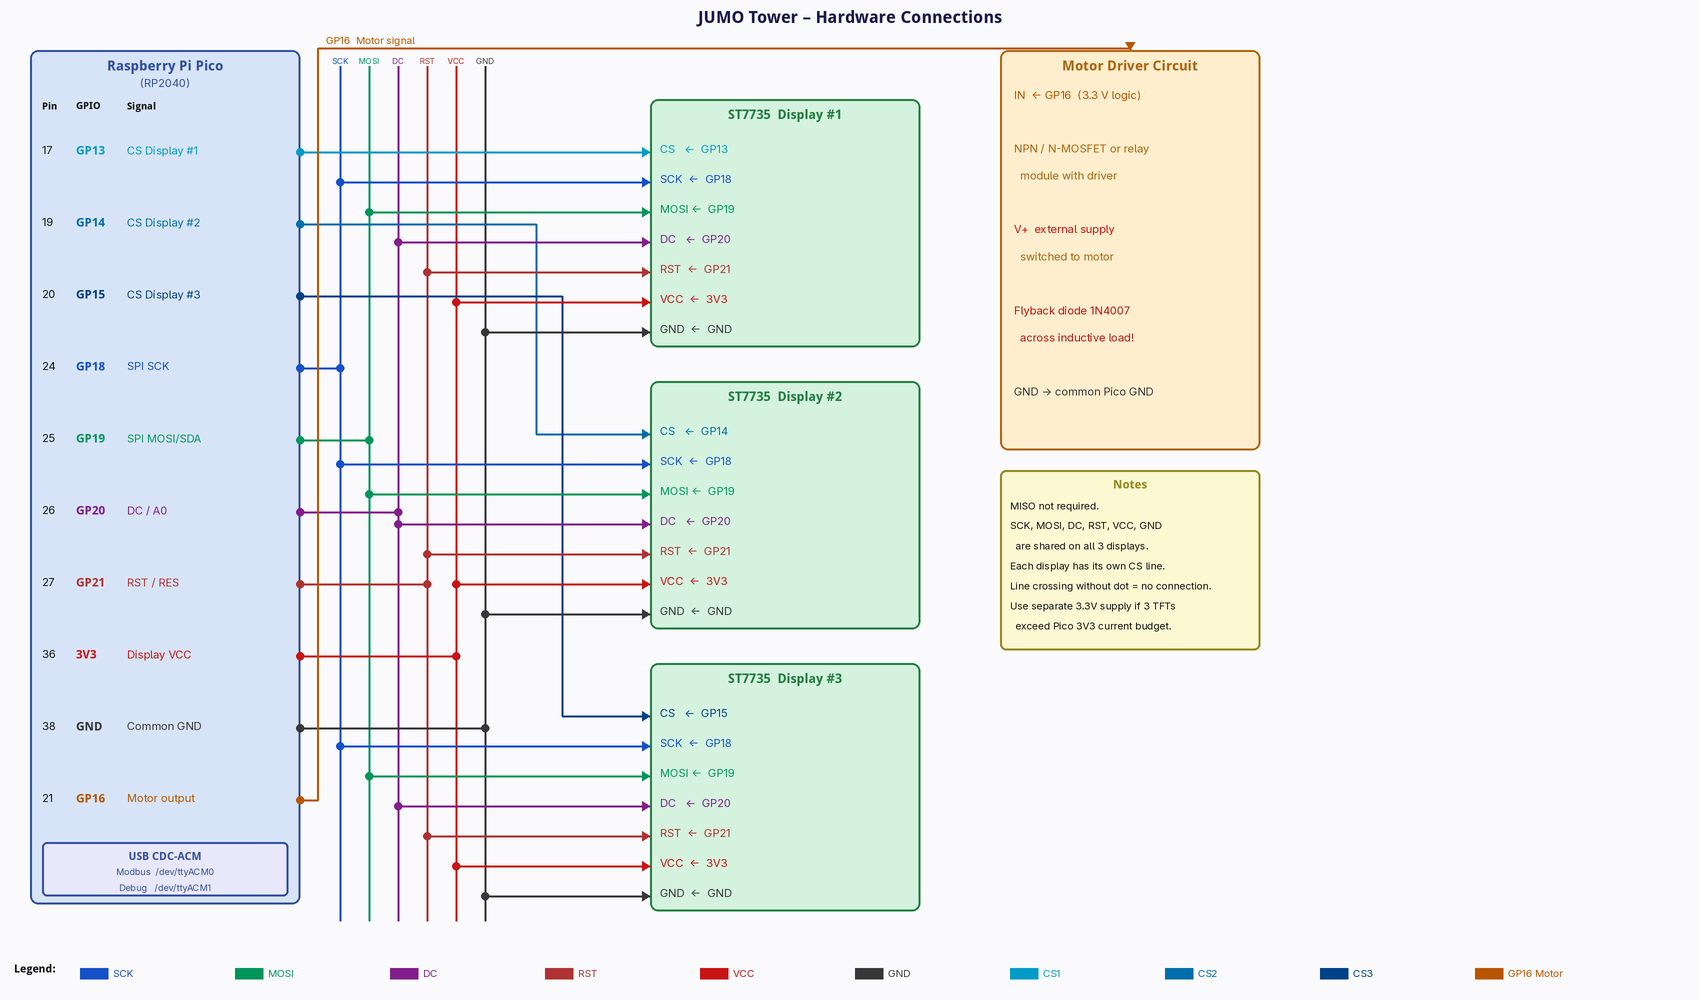
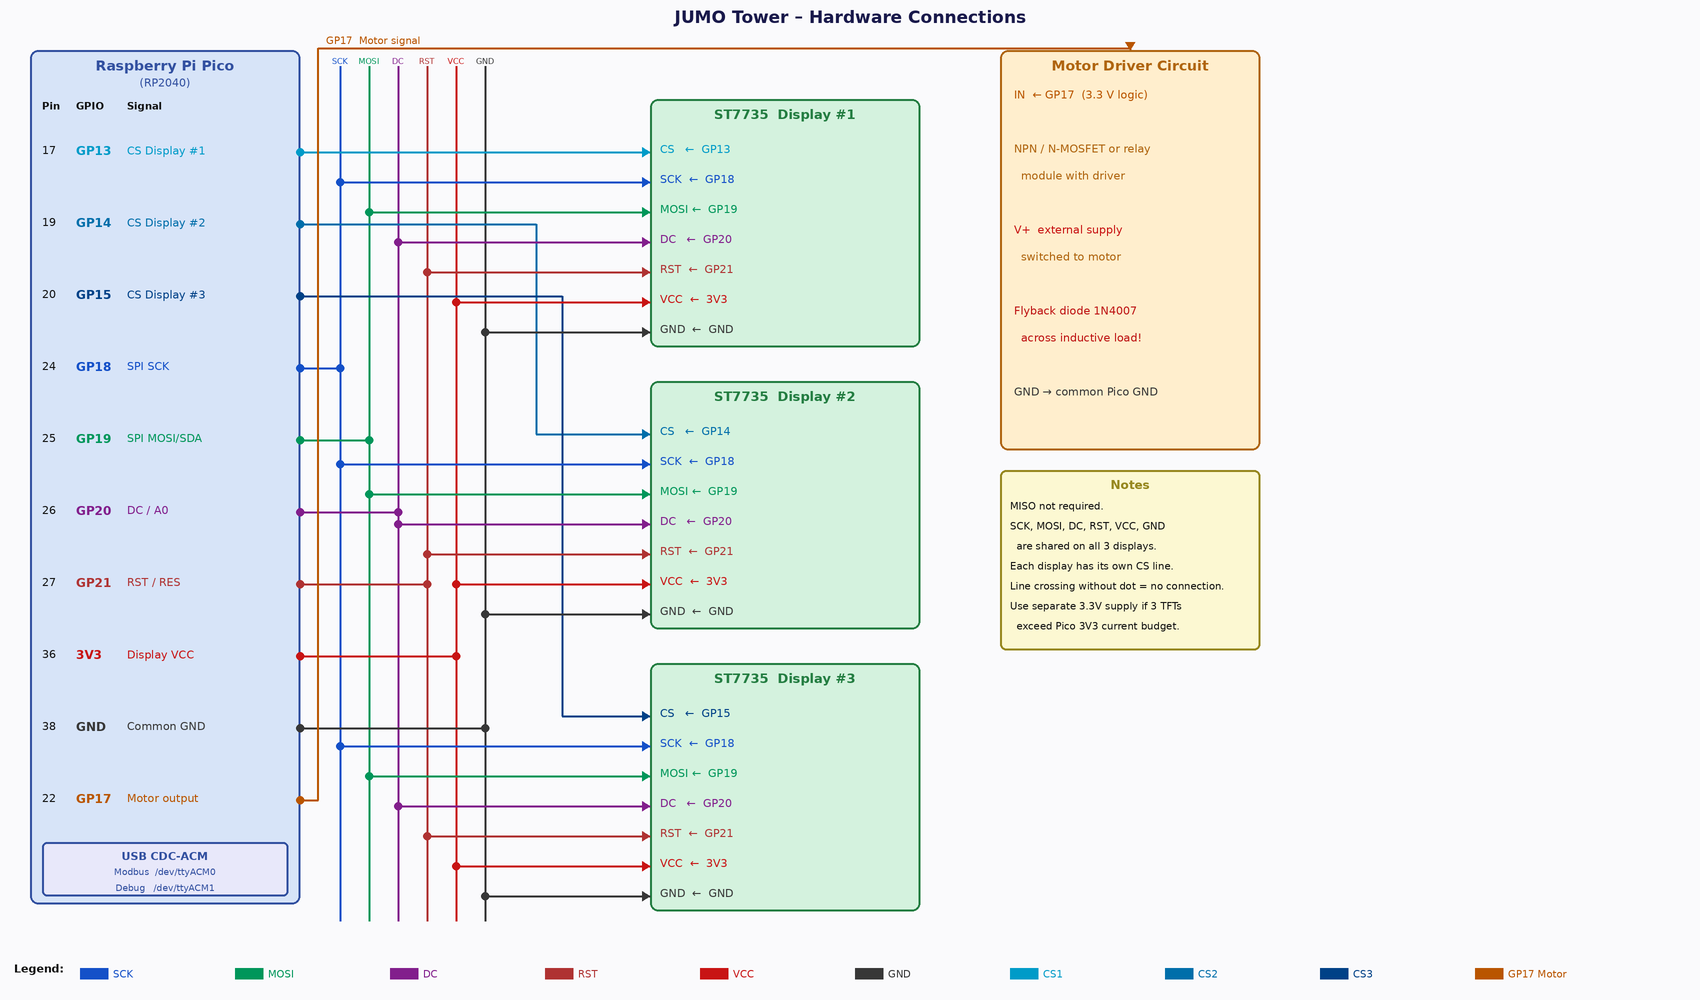
fix: move motor output from GP16 to GP17
Update firmware, documentation, and schematic wiring for Pico pin 22.
Make schematic generation use the available DejaVu fonts.

diff --git a/gen_schematic.py b/gen_schematic.py
@@ -4,8 +4,8 @@
 from PIL import Image, ImageDraw, ImageFont
 
 # ── Fonts ────────────────────────────────────────────────────────────────────
-FONT_REGULAR = "/usr/share/fonts/adwaita-sans-fonts/AdwaitaSans-Regular.ttf"
-FONT_BOLD    = "/usr/share/fonts/google-droid-sans-fonts/DroidSans-Bold.ttf"
+FONT_REGULAR = "/usr/share/fonts/truetype/dejavu/DejaVuSans.ttf"
+FONT_BOLD    = "/usr/share/fonts/truetype/dejavu/DejaVuSans-Bold.ttf"
 
 def font(size, bold=False):
     return ImageFont.truetype(FONT_BOLD if bold else FONT_REGULAR, size)
@@ -158,7 +158,7 @@ pins = [
     ("27","GP21","RST / RES",     C_RST),
     ("36","3V3", "Display VCC",   C_PWR),
     ("38","GND", "Common GND",    C_GND),
-    ("21","GP16","Motor output",  C_MOTOR),
+    ("22","GP17","Motor output",  C_MOTOR),
 ]
 
 for i,(nr,gpio,sig,c) in enumerate(pins):
@@ -238,7 +238,7 @@ vl(mot_entry_x, MOT_TOP_Y,  M_Y1,       C_MOTOR, w=2)   # down into box
 arrowhead_down(mot_entry_x, M_Y1, C_MOTOR)
 
 # small label on top horizontal segment
-txt(MOT_UP_X + 8, MOT_TOP_Y - 2, "GP16  Motor signal",
+txt(MOT_UP_X + 8, MOT_TOP_Y - 2, "GP17  Motor signal",
     sz=10, c=C_MOTOR, anc="lb")
 
 # ─────────────────────────────────────────────────────────────────────────────
@@ -288,7 +288,7 @@ txt((M_X1+M_X2)//2, M_Y1+10, "Motor Driver Circuit",
     sz=14, bold=True, c=BOX_MOTOR_BD, anc="mt")
 
 motor_lines = [
-    ("IN  ← GP16  (3.3 V logic)",  C_MOTOR),
+    ("IN  ← GP17  (3.3 V logic)",  C_MOTOR),
     ("",                            TXT),
     ("NPN / N-MOSFET or relay",     BOX_MOTOR_BD),
     ("  module with driver",        BOX_MOTOR_BD),
@@ -329,7 +329,7 @@ LY = H - LEG_H + 8
 txt(14, LY, "Legend:", sz=11, bold=True, c=TXT)
 items = [("SCK",C_SCK),("MOSI",C_MOSI),("DC",C_DC),("RST",C_RST),
          ("VCC",C_PWR),("GND",C_GND),("CS1",C_CS1),("CS2",C_CS2),
-         ("CS3",C_CS3),("GP16 Motor",C_MOTOR)]
+         ("CS3",C_CS3),("GP17 Motor",C_MOTOR)]
 for i,(lbl,c) in enumerate(items):
     ox = 80 + i * 155
     d.rectangle([s(ox), s(LY+4), s(ox+28), s(LY+15)], fill=c)

diff --git a/include/config.h b/include/config.h
@@ -16,7 +16,7 @@ constexpr uint8_t DISP_DC_PIN = 20;
 constexpr uint8_t DISP_RST_PIN = 21;
 constexpr uint8_t ST7735_INIT_OPTION = 0x00;  // INITR_GREENTAB (colstart=2, rowstart=1 fixes pixel-snow on ST7735S clones)
 // ── Motor GPIO ────────────────────────────────────────────────────────────────
-constexpr uint8_t MOTOR_PIN = 16;
+constexpr uint8_t MOTOR_PIN = 17;
 
 // ── Modbus ────────────────────────────────────────────────────────────────────
 constexpr uint8_t MODBUS_UNIT_ID = 1;

diff --git a/README.md b/README.md
@@ -13,7 +13,7 @@ The USB device enumerates as **JUMO / JUMO Tower**.
 | Displays | 3 x ST7735 TFT, 128x160 pixels, shared SPI bus |
 | SPI bus | SCK = GPIO 18, MOSI = GPIO 19 |
 | Display control | CS1 = GPIO 13, CS2 = GPIO 14, CS3 = GPIO 15, DC = GPIO 20, Reset = GPIO 21 |
-| Motor output | GPIO 16 (digital on/off) |
+| Motor output | GPIO 17 (digital on/off) |
 | Modbus transport | USB CDC-ACM (`/dev/ttyACM0`), 115200 baud |
 | Debug output | Second USB CDC-ACM interface (`/dev/ttyACM1`), 115200 baud |
 
@@ -29,7 +29,7 @@ The USB device enumerates as **JUMO / JUMO Tower**.
 | 17 | GP13 | TFT CS1 | CS on ST7735 #1 |
 | 19 | GP14 | TFT CS2 | CS on ST7735 #2 |
 | 20 | GP15 | TFT CS3 | CS on ST7735 #3 |
-| 21 | GP16 | Motor OUT | Base/Gate of driver transistor / relay IN |
+| 22 | GP17 | Motor OUT | Base/Gate of driver transistor / relay IN |
 | 24 | GP18 | SPI SCK | SCK on all ST7735 modules |
 | 25 | GP19 | SPI MOSI | MOSI/SDA on all ST7735 modules |
 | 26 | GP20 | TFT DC | DC/A0 on all ST7735 modules |
@@ -41,7 +41,7 @@ The USB device enumerates as **JUMO / JUMO Tower**.
 
 - **SPI connections:** connect `SCK`, `MOSI` (sometimes labelled `SDA`), `DC` (sometimes `A0`) and `RST`/`RES` to all three modules. Connect each module's `CS` only to its assigned Pico GPIO. `MISO` is not required.
 - **Display variant:** the firmware uses the `INITR_GREENTAB` initialization for common 1.8-inch 128x160 modules. If the visible image is shifted, adjust `ST7735_INIT_OPTION` in [include/config.h](include/config.h) for the tab variant of the module.
-- **Motor driver:** GP16 is a 3.3 V logic output. Use an NPN transistor, N-MOSFET, or a relay module with built-in driver. Add a **flyback diode** (e.g. 1N4007) across inductive loads.
+- **Motor driver:** GP17 is a 3.3 V logic output. Use an NPN transistor, N-MOSFET, or a relay module with built-in driver. Add a **flyback diode** (e.g. 1N4007) across inductive loads.
 - **Power:** three backlit TFT modules can exceed the current available from the Pico's 3V3 rail. Use a sufficiently rated 3.3 V supply when needed and always connect its ground to Pico GND.
 
 ## Build
